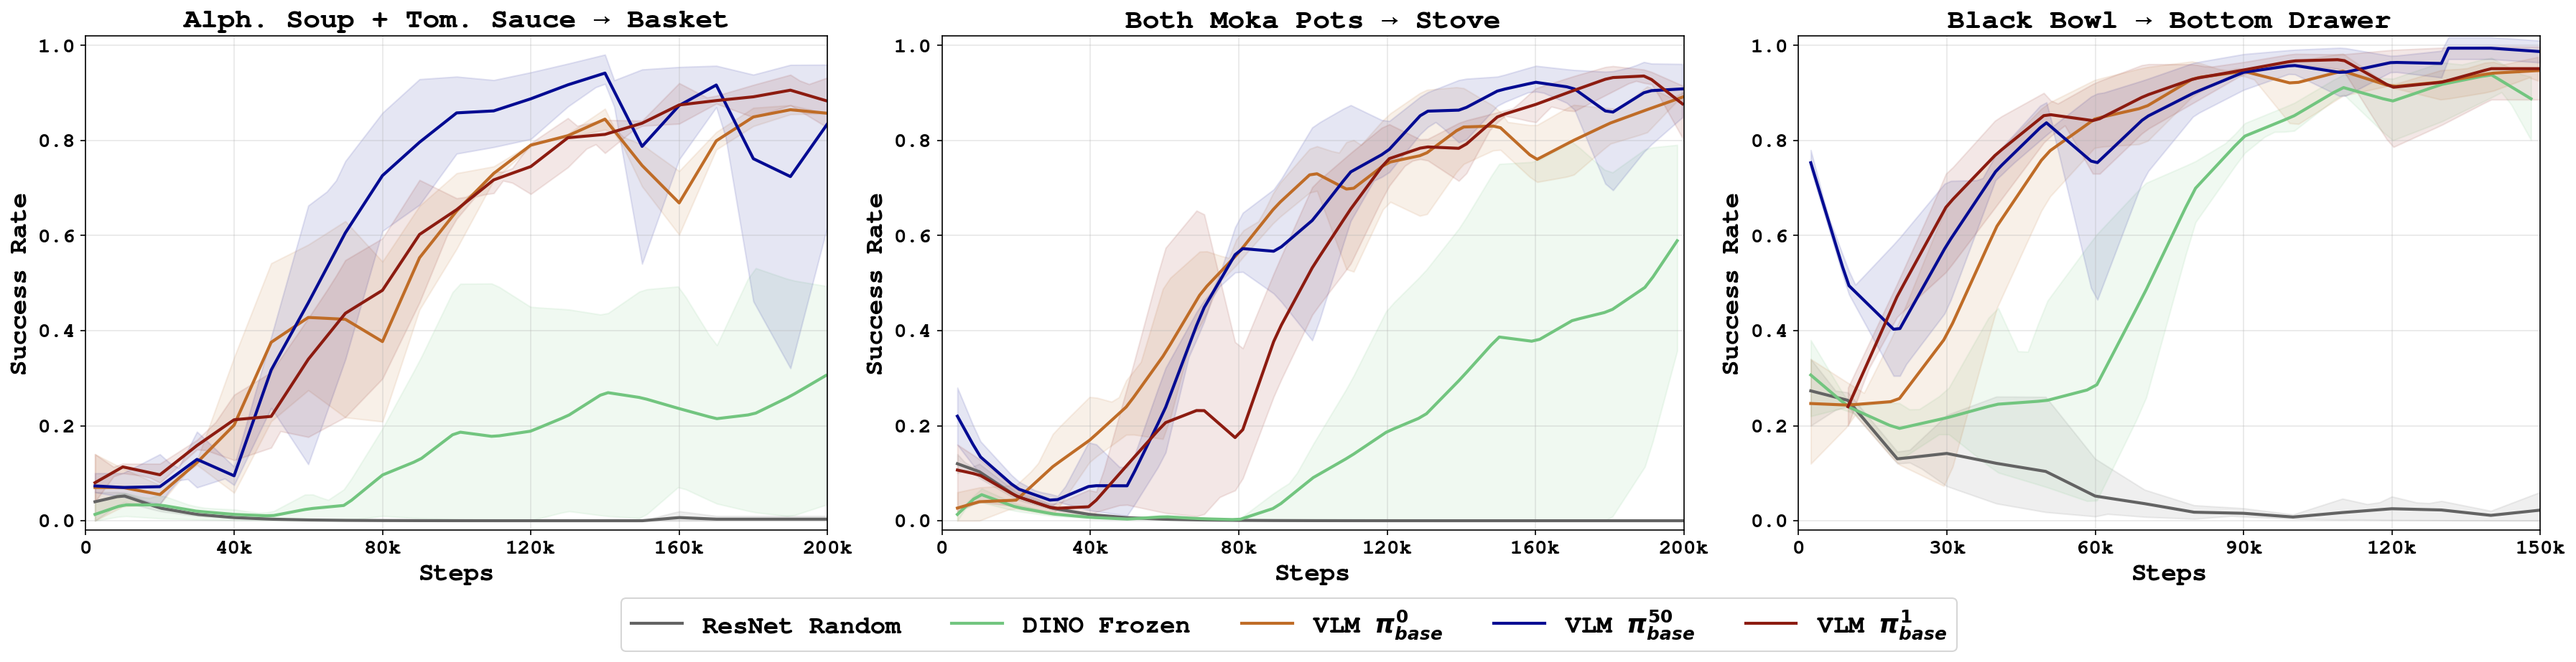
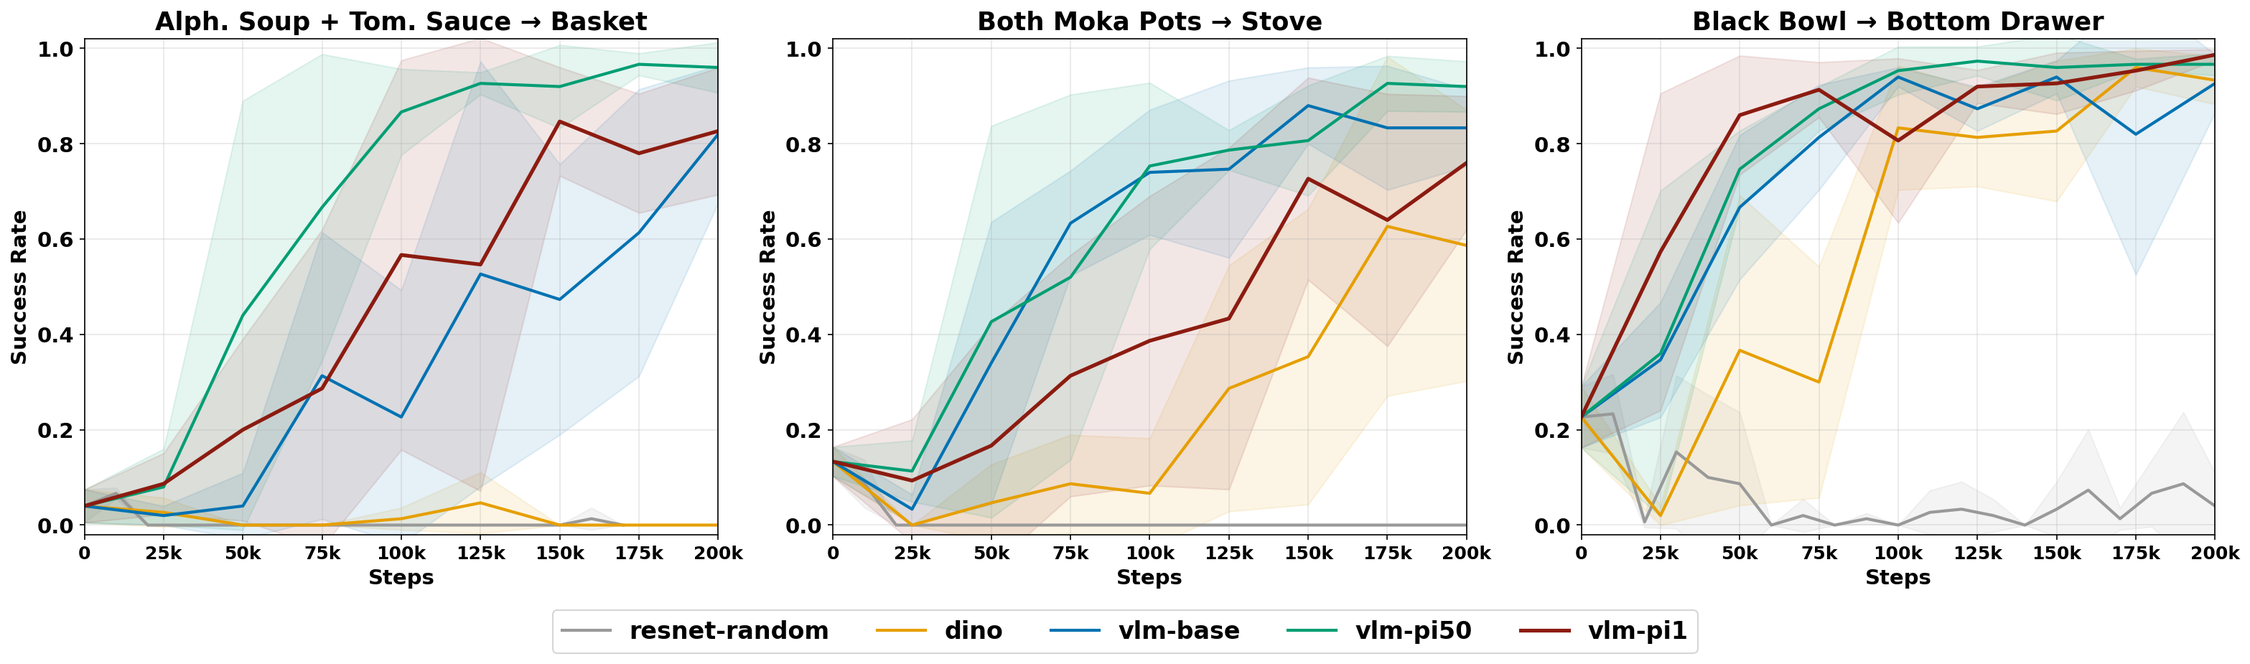
Update figures to match the ICLR 2027 draft
- Fig. 4 (Q2 representations) and Fig. 8 (reset curriculum): replace with
  the paper's versions
- Figs. 6 and 7: replace the separate per-shift panels with the paper's
  combined observation-shift and state-shift charts, and update captions
- Remove the superseded per-shift panel images

diff --git a/index.html b/index.html
@@ -219,17 +219,10 @@
       <div class="qf-num">Finding 1</div>
       <div class="qf-finding">Observation-level robustness is inherited from the frozen vision-language backbone.</div>
 
-      <div class="fig-grid-2">
-        <div>
-          <img src="./figs/midas/obj_perturbation_comparison.png" alt="Visual shift">
-          <div class="sub-caption">(a) Visual shift (color / texture)</div>
-        </div>
-        <div>
-          <img src="./figs/midas/lang_perturbation_comparison.png" alt="Language shift">
-          <div class="sub-caption">(b) Language shift (paraphrase)</div>
-        </div>
+      <div class="fig-narrow">
+        <img src="./figs/midas/obs_shift_comparison.png" alt="Performance of BC and MiDAS under observation shifts (visual and language)">
       </div>
-      <p class="figure-caption"><b>Observation shifts.</b> Pretrained representations preserve performance under visual and language changes.</p>
+      <p class="figure-caption"><b>Performance of BC and MiDAS under observation shifts.</b> Pretrained representations preserve performance under visual and language changes.</p>
     </div>
 
     <!-- Finding 2 -->
@@ -237,21 +230,10 @@
       <div class="qf-num">Finding 2</div>
       <div class="qf-finding">State generalization depends on whether the same underlying behavior still solves the task.</div>
 
-      <div class="fig-grid-3">
-        <div>
-          <img src="./figs/midas/shape_perturbation_comparison.png" alt="Shape change">
-          <div class="sub-caption">(a) Shape change</div>
-        </div>
-        <div>
-          <img src="./figs/midas/swp_perturbation_comparison.png" alt="Object swap">
-          <div class="sub-caption">(b) Object swap</div>
-        </div>
-        <div>
-          <img src="./figs/midas/object_change_comparison.png" alt="Object change">
-          <div class="sub-caption">(c) Object change</div>
-        </div>
+      <div class="fig-narrow">
+        <img src="./figs/midas/state_shift_comparison.png" alt="Performance of BC and MiDAS under state shifts (object swap, shape change, object change)">
       </div>
-      <p class="figure-caption"><b>State shifts.</b> Online RL improves robustness when the same manipulation behavior suffices. It degrades when the shift demands a distinct affordance or strategy.</p>
+      <p class="figure-caption"><b>Performance of BC and MiDAS under state shifts.</b> Online RL improves robustness when the same manipulation behavior suffices. It degrades when the shift demands a distinct affordance or strategy.</p>
     </div>
 
     <!-- Finding 3 -->
